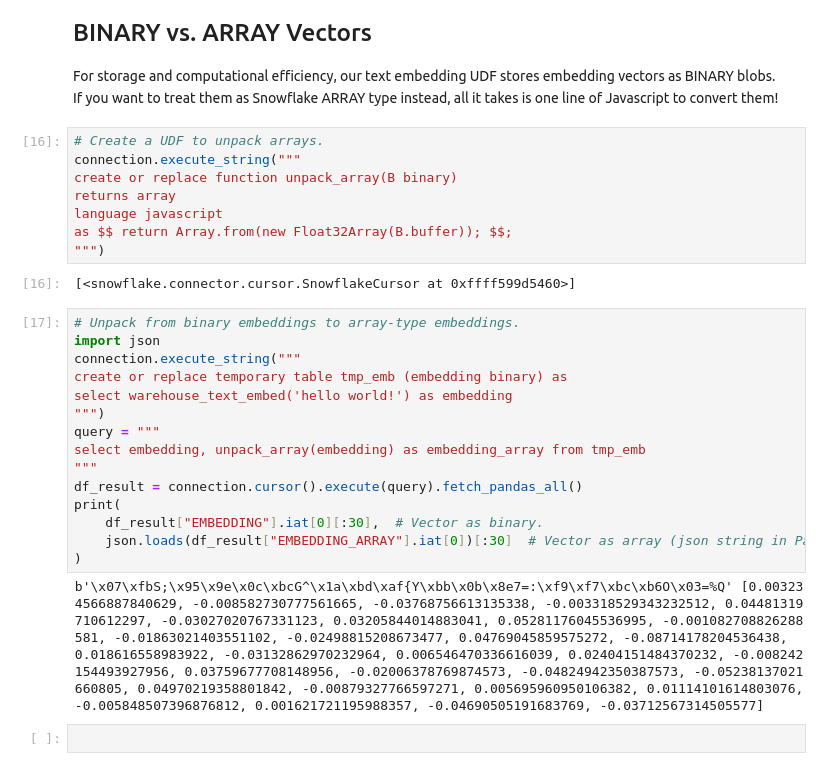
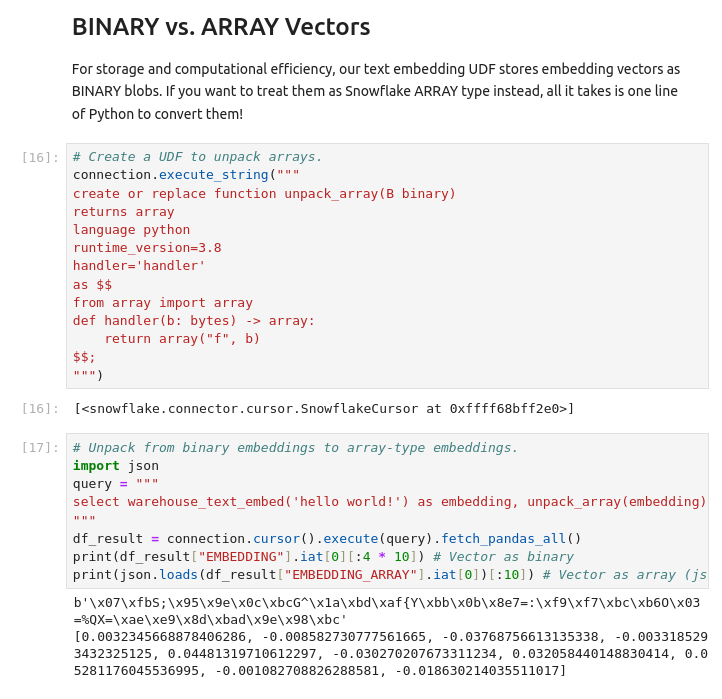
Polish and un-hide the text embedding quickstart (#825)
* Update notebook with Python UDF

* Change comment

* Tweak comment and screenshot

* Update quickstart text to match changes

---------

diff --git a/site/sfguides/src/text_embedding_as_snowpark_python_udf/text_embedding_as_snowpark_python_udf.md b/site/sfguides/src/text_embedding_as_snowpark_python_udf/text_embedding_as_snowpark_python_udf.md
@@ -3,7 +3,7 @@ id: text_embedding_as_snowpark_python_udf
 summary: Text Embedding As A Snowpark Python UDF
 categories: data-science-&-ml
 environments: web
-status: Hidden 
+status: Published
 feedback link: https://github.com/Snowflake-Labs/sfguides/issues
 tags: Snowpark Python, Machine Learning, Data Science, NLP 
 
@@ -97,17 +97,14 @@ We're almost ready to run text embedding directly on Snowflake warehouse compute
 
 ### A Note On Storing Vectors As BINARY Vs. ARRAY
 
-For storage and computational efficiency, our text embedding UDF stores embedding vectors as BINARY blobs constructed by concatenating all of the 32-bit floating point numbers in the vector together in order. While this is how numerical computing libraries like Numpy and Pytorch "see" vectors, sometimes it may be useful to take a more JSON-like perspective and treat your embedding vectors as a Snowflake ARRAY. We could modify our UDF to make it always return an ARRAY, but for greater flexibility we can instead add a new Snowpark UDF to enable a conversion from our BINARY form to ARRAY form. In fact, all it takes is one line of JavaScript to make this possible!
+For storage and computational efficiency, our text embedding UDF stores embedding vectors as BINARY blobs constructed by concatenating all of the 32-bit floating point numbers in the vector together in order. While this is how numerical computing libraries like Numpy and Pytorch "see" vectors, sometimes it may be useful to take a more JSON-like perspective and treat your embedding vectors as a Snowflake ARRAY.
+
+To accomplish this, we could modify our UDF to make it always return an ARRAY, but for greater flexibility we can instead add a new Snowpark UDF to enable a conversion from our BINARY form to ARRAY form. In fact, all it takes is one line of Python to make this possible!
 
 
 Feel free to give it a shot by running the last couple cells of the notebook.
 
 ![unpacking example](assets/unpack_binary_vectors.png)
-
-
-> aside negative
-> 
->  Warning: Composing Python and JavaScript UDFs together in a single query on warehouses may cause out-of-memory errors, since the warehouse may try to allocate memory for both UDFs at the same time. This is why our example shows running the embedding function in its own query first, then unpacking the result in a separate query. If you want to compose these UDFs but run into memory issues, you can also try using a [Snowpark-optimized](https://docs.snowflake.com/en/user-guide/warehouses-snowpark-optimized) warehouse. 
 
 
 <!-- ------------------------ -->
